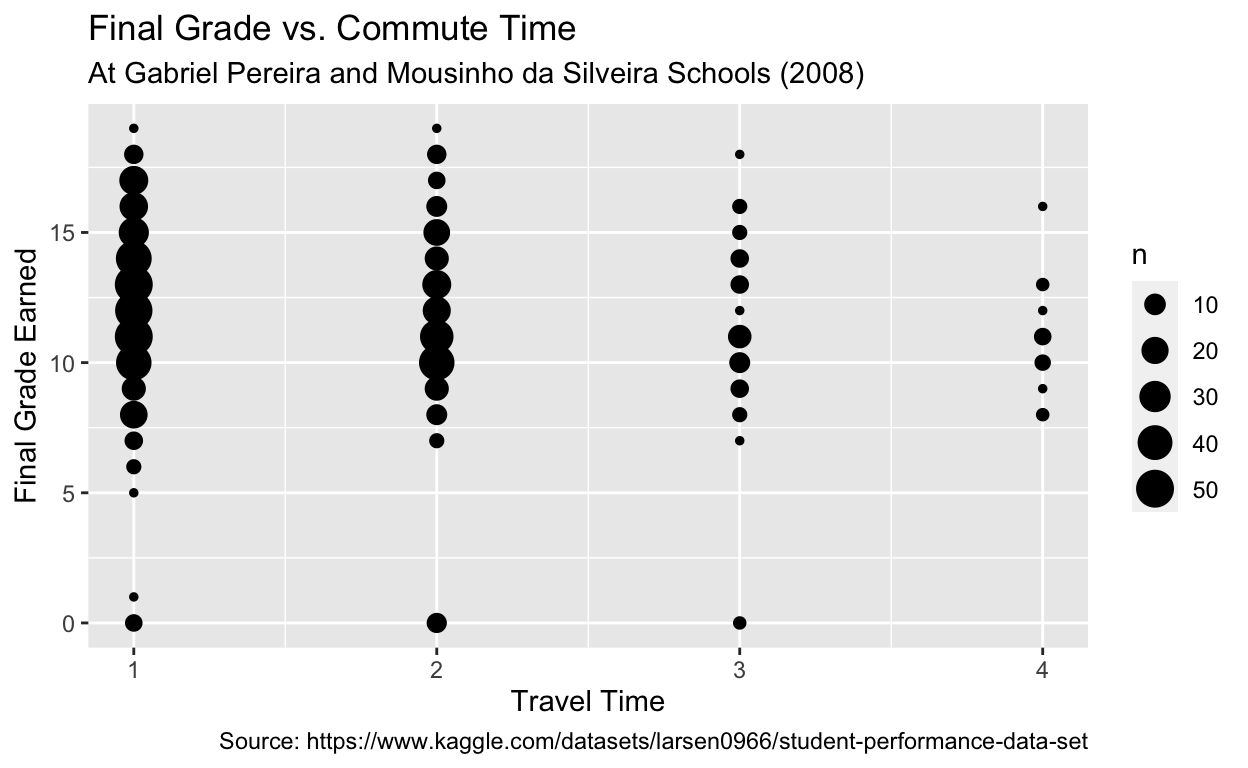
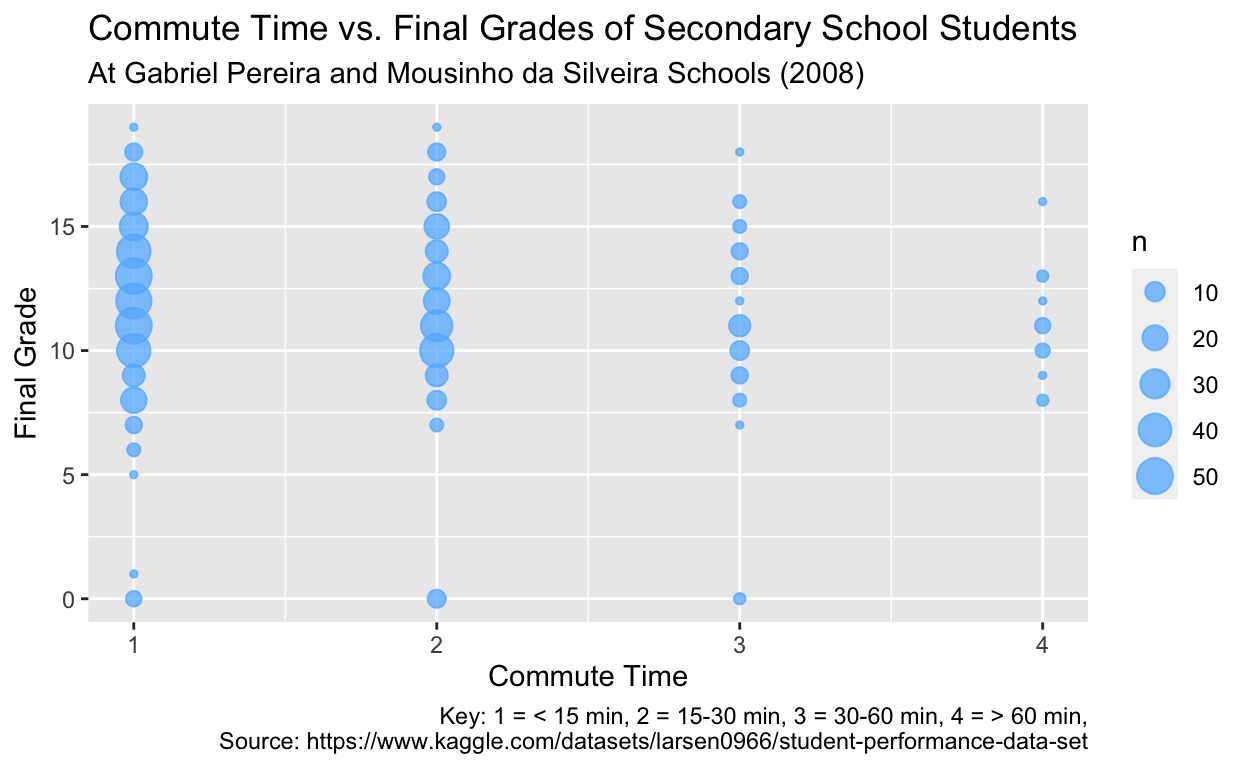
THIS IS IT BABY

diff --git a/index.html b/index.html
@@ -90,7 +90,7 @@ code span.wa { color: #5e5e5e; font-style: italic; } /* Warning */
   <!--radix_placeholder_meta_tags-->
   <title>Gov 50 Final Project</title>
 
-  <meta property="description" itemprop="description" content="Family Educational Support and Grades"/>
+  <meta property="description" itemprop="description" content="Race Against Time: The Effect of Commute Times on Student Grades"/>
 
 
   <meta name="article:author" content="Violet Barron"/>
@@ -98,19 +98,19 @@ code span.wa { color: #5e5e5e; font-style: italic; } /* Warning */
   <!--  https://developers.facebook.com/docs/sharing/webmasters#markup -->
   <meta property="og:title" content="Gov 50 Final Project"/>
   <meta property="og:type" content="article"/>
-  <meta property="og:description" content="Family Educational Support and Grades"/>
+  <meta property="og:description" content="Race Against Time: The Effect of Commute Times on Student Grades"/>
   <meta property="og:locale" content="en_US"/>
 
   <!--  https://dev.twitter.com/cards/types/summary -->
   <meta property="twitter:card" content="summary"/>
   <meta property="twitter:title" content="Gov 50 Final Project"/>
-  <meta property="twitter:description" content="Family Educational Support and Grades"/>
+  <meta property="twitter:description" content="Race Against Time: The Effect of Commute Times on Student Grades"/>
 
   <!--/radix_placeholder_meta_tags-->
   <!--radix_placeholder_rmarkdown_metadata-->
 
   <script type="text/json" id="radix-rmarkdown-metadata">
-  {"type":"list","attributes":{"names":{"type":"character","attributes":{},"value":["title","author","description","output"]}},"value":[{"type":"character","attributes":{},"value":["Gov 50 Final Project"]},{"type":"list","attributes":{},"value":[{"type":"list","attributes":{"names":{"type":"character","attributes":{},"value":["name"]}},"value":[{"type":"character","attributes":{},"value":["Violet Barron"]}]}]},{"type":"character","attributes":{},"value":["Family Educational Support and Grades"]},{"type":"list","attributes":{"names":{"type":"character","attributes":{},"value":["distill::distill_article"]}},"value":[{"type":"list","attributes":{"names":{"type":"character","attributes":{},"value":["self_contained"]}},"value":[{"type":"logical","attributes":{},"value":[false]}]}]}]}
+  {"type":"list","attributes":{"names":{"type":"character","attributes":{},"value":["title","author","description","output"]}},"value":[{"type":"character","attributes":{},"value":["Gov 50 Final Project"]},{"type":"list","attributes":{},"value":[{"type":"list","attributes":{"names":{"type":"character","attributes":{},"value":["name"]}},"value":[{"type":"character","attributes":{},"value":["Violet Barron"]}]}]},{"type":"character","attributes":{},"value":["Race Against Time: The Effect of Commute Times on Student Grades"]},{"type":"list","attributes":{"names":{"type":"character","attributes":{},"value":["distill::distill_article"]}},"value":[{"type":"list","attributes":{"names":{"type":"character","attributes":{},"value":["self_contained"]}},"value":[{"type":"logical","attributes":{},"value":[false]}]}]}]}
   </script>
   <!--/radix_placeholder_rmarkdown_metadata-->
   
@@ -1493,7 +1493,7 @@ code span.wa { color: #5e5e5e; font-style: italic; } /* Warning */
 <!--radix_placeholder_front_matter-->
 
 <script id="distill-front-matter" type="text/json">
-{"title":"Gov 50 Final Project","description":"Family Educational Support and Grades","authors":[{"author":"Violet Barron","authorURL":"#","affiliation":"&nbsp;","affiliationURL":"#","orcidID":""}]}
+{"title":"Gov 50 Final Project","description":"Race Against Time: The Effect of Commute Times on Student Grades","authors":[{"author":"Violet Barron","authorURL":"#","affiliation":"&nbsp;","affiliationURL":"#","orcidID":""}]}
 </script>
 
 <!--/radix_placeholder_front_matter-->
@@ -1506,7 +1506,7 @@ code span.wa { color: #5e5e5e; font-style: italic; } /* Warning */
 <h1>Gov 50 Final Project</h1>
 <!--radix_placeholder_categories-->
 <!--/radix_placeholder_categories-->
-<p>Family Educational Support and Grades</p>
+<p>Race Against Time: The Effect of Commute Times on Student Grades</p>
 </div>
 
 <div class="d-byline">
@@ -1518,18 +1518,18 @@ code span.wa { color: #5e5e5e; font-style: italic; } /* Warning */
 
 <div class="d-article">
 <h2 id="introduction">Introduction</h2>
-<p>Does having a family which provides educational support affect students’ grades? In this study, I plan to examine the extent to which family educational support contributes to student performance.</p>
-<p>I hypothesize that students whose families are able to provide educational support will earn higher grades, while students whose families aren’t able to provide educational support will earn lower grades.</p>
-<p>This data — and my analysis of it — is important because determining the factors that may lead to discrepancies in students’ grades can provide schools with ideas of how to fill in the gaps in students’ academic experiences. For example, if my hypothesis is proven correct and students whose families provide them with educational support indeed perform better academically than students whose families do not provide them with educational support, schools can use this data to provide the latter subset of students with additional institutional educational support.</p>
+<p>Do commute times to and from school affect student performance? In this study, I plan to examine the extent to which the time it takes students to travel between home and school contributes to students’ grades.</p>
+<p>I hypothesize that students with shorter commute times will earn higher grades, while students with longer commute times will earn lower grades. I believe this will prove to be the case because more time spent commuting is neccessarily less time spent on (quality) studying (e.g. studying not done while sitting in a vehicle).</p>
+<p>This data — and my analysis of it — is important because determining the factors that may lead to discrepancies in students’ grades can provide schools with ideas of how to make the student experience more equitable and ensure that all students have the best chance of academic success. For example, if my hypothesis is proven correct and students with shorter commute times indeed perform better academically than students with longer commute times, schools could account for this inequity by providing students with longer commute times with, say, additional academic counseling.</p>
 <h2 id="data">Data</h2>
-<p>My data is sourced from a survey that measures student performance (determined by final grades) and the various aspects of student identity (e.g. family sie, parents’ career, number of hours spent studying per week, etc.) in two Portuguese secondary schools, Gabriel Pereira and Mousinho da Silveira. I found the dataset on kaggle.com (<a href="https://www.kaggle.com/datasets/larsen0966/student-performance-data-set" class="uri">https://www.kaggle.com/datasets/larsen0966/student-performance-data-set</a>), but it was originally retrieved from <a href="https://archive.ics.uci.edu/ml/datasets/Student+Performance" class="uri">https://archive.ics.uci.edu/ml/datasets/Student+Performance</a>, and its original source is Paulo Cortez, University of Minho, GuimarÃ£es, Portugal (<a href="http://www3.dsi.uminho.pt/pcortez" class="uri">http://www3.dsi.uminho.pt/pcortez</a>).</p>
-<p>This research design is cross-sectional, as it was not generated from a randomized experiment, nor does it measure any sort of change over time or differences-in-differences. The explanatory, or independent, variable is whether students receive educational support from their families or not. The variable is coded =1 for family educational support and =0 for no family educational support. The outcome, or dependent, variable is a student’s final grade. This variable is measured on a scale of 0-20, with 0 being the lowest possible final grade and 20 being the highest possible final grade a student could receive. As I mentioned above, the independent and dependent variables were both measured via a survey conducted in 2008 which measures student performance and various aspects of student identity in two Portuguese secondary schools.</p>
-<p>If I observe that students who receive educational support from their families earn, on average, higher final grades, this would provide support for my hypothesis. If, on the other hand, I observe that students who receive educational support from their families earn, on average, lower final grades, this would provide evidence against my hypothesis. When I run my regression of students’ average final grades on the family educational support indicator variable, a positive, relatively significant coefficient would indicate support for my hypothesis.</p>
+<p>My data is sourced from a survey that measures student performance (determined by final grades) and the various aspects of student identity (e.g. family size, parents’ careers, number of hours spent studying per week, etc.) in two Portuguese secondary schools, the Gabriel Pereira School and the Mousinho da Silveira School. I found the dataset on kaggle.com (<a href="https://www.kaggle.com/datasets/larsen0966/student-performance-data-set" class="uri">https://www.kaggle.com/datasets/larsen0966/student-performance-data-set</a>), but it was originally retrieved from <a href="https://archive.ics.uci.edu/ml/datasets/Student+Performance" class="uri">https://archive.ics.uci.edu/ml/datasets/Student+Performance</a>, and its original source is Paulo Cortez, University of Minho, GuimarÃ£es, Portugal (<a href="http://www3.dsi.uminho.pt/pcortez" class="uri">http://www3.dsi.uminho.pt/pcortez</a>).</p>
+<p>This research design is cross-sectional, as it was not generated from a randomized experiment, nor does it measure any sort of change over time or differences-in-differences. The explanatory, or independent, variable is the time it takes students to travel between home and school. The variable is coded =1 for a commute time of less than 15 minutes, =2 for a commute time between 15 and 30 minutes, =3 for a commute time between 30 minutes and 60 minutes, and =4 for a commute time of greater than 60 minutes. The outcome, or dependent, variable are students’ final grades. This variable is measured on a scale of 0-20, with 0 being the lowest possible final grade and 20 being the highest possible final grade a student could receive. As I mentioned above, the independent and dependent variables were both measured via a survey conducted in 2008 which measures student performance and various aspects of student identity in two Portuguese secondary schools.</p>
+<p>If I observe that students with shorter commute times earn, on average, higher final grades, this would provide support for my hypothesis. If, on the other hand, I observe that students with shorter commute times earn, on average, lower final grades, this would provide evidence against my hypothesis. When I run my regression of students’ average final grades on the commute time variable, a negative, relatively significant coefficient would indicate support for my hypothesis, as the negative coefficient would indicate an inversely proportional relationship between commute time and student grades, which I hypothesized.</p>
 <div class="layout-chunk" data-layout="l-body">
 <p><img src="index_files/figure-html5/unnamed-chunk-1-1.png" width="624" /></p>
 </div>
 <h2 id="results">Results</h2>
-<p>Average Final Grade by Commute Time</p>
+<p>Average Final Grade by Commute Time:</p>
 <div class="layout-chunk" data-layout="l-body">
 <table>
 <thead>
@@ -1551,7 +1551,27 @@ code span.wa { color: #5e5e5e; font-style: italic; } /* Warning */
 </table>
 <p><img src="index_files/figure-html5/unnamed-chunk-2-1.png" width="624" /></p>
 </div>
-<div class="sourceCode" id="cb1"><pre class="sourceCode r distill-force-highlighting-css"><code class="sourceCode r"></code></pre></div>
+<p>Main Regression of Interest:</p>
+<div class="layout-chunk" data-layout="l-body">
+<div class="sourceCode">
+<pre class="sourceCode r"><code class="sourceCode r"><span><span class='va'>fit</span> <span class='op'>&lt;-</span> <span class='fu'><a href='https://rdrr.io/r/stats/lm.html'>lm</a></span><span class='op'>(</span><span class='va'>G3</span> <span class='op'>~</span> <span class='va'>traveltime</span>, data <span class='op'>=</span> <span class='va'>studentperformance</span><span class='op'>)</span></span>
+<span><span class='va'>fit</span></span></code></pre>
+</div>
+<pre><code>
+Call:
+lm(formula = G3 ~ traveltime, data = studentperformance)
+
+Coefficients:
+(Intercept)   traveltime  
+    12.7668      -0.5488  </code></pre>
+</div>
+<h2 id="results-1">Results</h2>
+<p>My calculations confirmed my hypothesis that students with shorter commute times will earn higher grades, while students with longer commute times will earn lower grades. Students withs a commute time of less than 15 minutes averaged a final grade of 12.25137/20, students with a commute time between 15 and 30 minutes averaged 11.57746/20, students with a commute time between 30 and 60 minutes average 11.16667/20, and students with a commute time of greater than 60 min averaged 10.875/20.</p>
+<p>My data was unfortunately constrained by the fact that the commute times had already been partially aggregated in the data set. Rather than recording the specific commute time (in minutes) for each student, the survey lumped these commute times into 4 groups: less than 15 minutes, =2 for a commute time between 15 and 30 minutes, =3 for a commute time between 30 minutes and 60 minutes, and =4 for a commute time of greater than 60 minutes. More precise commute times would have resulted in more accurate final calculations.</p>
+<p>The main coefficient of interest in my regression was that for commute time (“traveltime”). This coefficient was -0.5488, which, as I hypothesized, is a negative and relatively significant value. The fact that the coefficient is negative indicates that the independent variable, commute time, has an inversely proportional relationship with the dependent variable, student grades. In other words, as commute time increases, student grades, on average, decrease. This coefficient is statistically significant (i.e. the null hypothesis can be rejected) because it is not 0.</p>
+<p>However, I cannot confidently assert a causal link between commute time and student grades due to the third variable problem. There are a number of confounding factors — family size, parents’ careers, number of hours spent studying per week, internet access, family relationship status, family/school educational support, to name a few — which could just as well be contributing to the observed decrease in student grades with longer commute times.</p>
+<p>If I had more time, I would want to improve my analysis by analyzing a number of these factors and performing regressions on them to see which of these factors truly has the greatest impact on student grades.</p>
+<div class="sourceCode" id="cb2"><pre class="sourceCode r distill-force-highlighting-css"><code class="sourceCode r"></code></pre></div>
 <!--radix_placeholder_article_footer-->
 <!--/radix_placeholder_article_footer-->
 </div>
